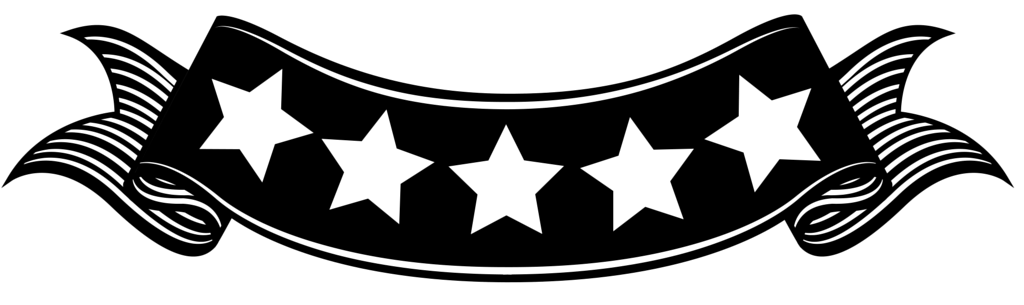
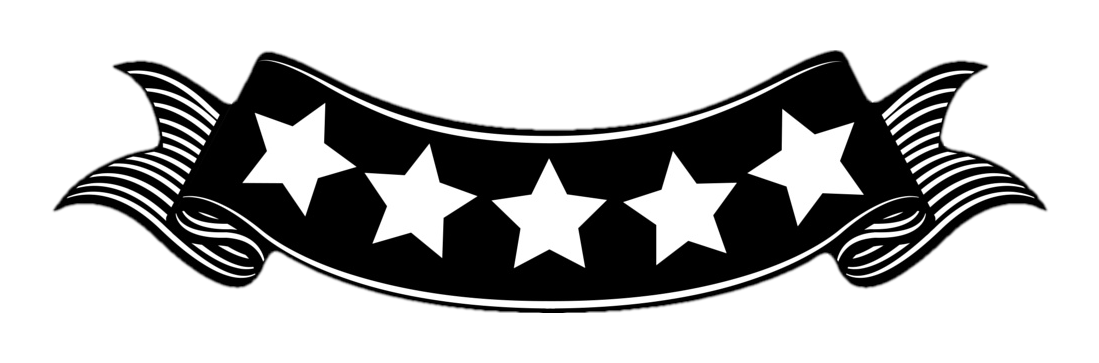
update to header and images

Changed region(s): [[0.0, 0.0295, 1.0, 0.9443], [0.5938, 0.5607, 0.6875, 0.7672]]

diff --git a/src/css/style.css b/src/css/style.css
@@ -1,5 +1,5 @@
 .order-div {
-  padding: 10px;
+  padding: 0px 10px;
   width: 33.33%;
   float: right;
   margin-top: 20px;
@@ -303,9 +303,17 @@ header.top h3:after {
   top: auto;
   bottom: 7px;
 }
-header.top img {
-  width: 50%;
+header.top img.banner {
+  width: 40%;
+  margin-top: -10px;
 }
+header.top img.flip {
+  width: 40%;
+   -webkit-transform: rotate(180deg);
+          transform: rotate(180deg);
+  margin: -10px 0px -15px;
+}
+
 .customerView {
   display: relative;
 }
@@ -499,8 +507,8 @@ ul.order li span.count span {
 }
 .menu-mains img {
   text-align: center;
-  width: 50%;
-  margin-left: 25%;
+  width: 30%;
+  margin-left: 35%;
   border: 3px solid #000;
 }
 .menu-mains button {

diff --git a/src/components/Header.js b/src/components/Header.js
@@ -5,6 +5,7 @@ class Header extends React.Component {
         var details = this.props.title
         return (
           <header className="top">
+            <img className="flip" src={require('../css/images/five-stars.png')} role='presentation' />
             <h1>{details}</h1>
             <img className="banner" src={require('../css/images/five-stars.png')} role='presentation' />
           </header>
